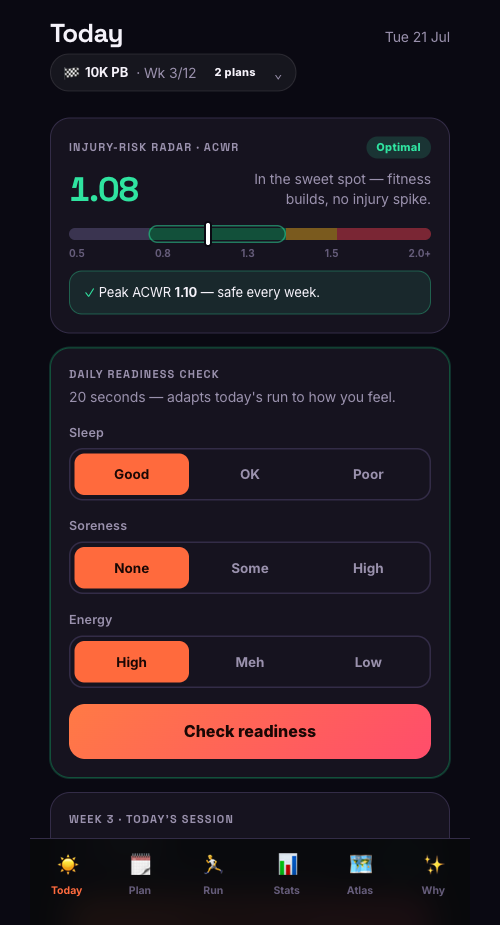
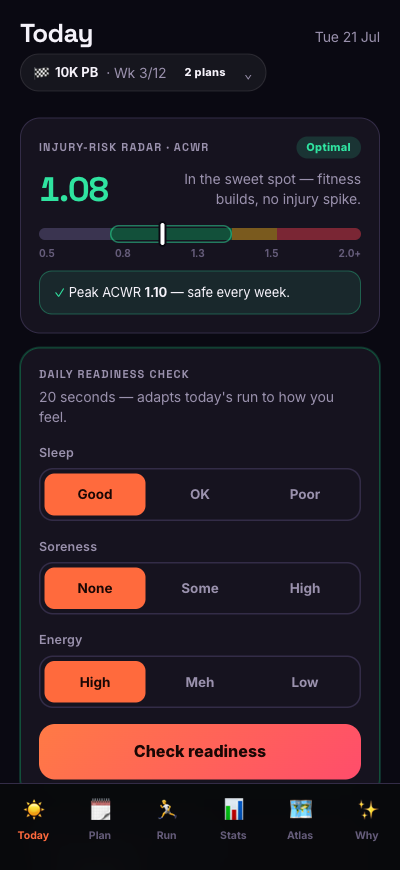
app: Run tab/screen adapts to walk mode (Walk tab, Easy walk, Start walk); SW v32 site: refresh proof-section screenshots with recent app (Today · Route Finder · AI coach)

diff --git a/app/app.html b/app/app.html
@@ -649,7 +649,7 @@
   <nav id="nav" class="hide">
     <button data-v="today" class="on" onclick="go('today')"><span class="ni">☀️</span>Today</button>
     <button data-v="plan" onclick="go('plan')"><span class="ni">🗓️</span>Plan</button>
-    <button data-v="run" onclick="go('run')"><span class="ni">🏃</span>Run</button>
+    <button data-v="run" onclick="go('run')"><span class="ni" id="nav-run-i">🏃</span><span id="nav-run-t">Run</span></button>
     <button data-v="stats" onclick="go('stats')"><span class="ni">📊</span>Stats</button>
     <button data-v="atlas" onclick="go('atlas')"><span class="ni">🗺️</span>Atlas</button>
     <button data-v="why" onclick="go('why')"><span class="ni">✨</span>Why</button>
@@ -1058,6 +1058,7 @@ function renderToday(){
     <button class="btn p" style="margin-top:14px" onclick="go('run')">Start this ${actWord()} →</button>`;
   reflectReminders();
   if(typeof renderRouteFinder==='function')renderRouteFinder();
+  if(typeof reflectMode==='function')reflectMode();
 }
 
 // ---- readiness ----
@@ -1253,8 +1254,9 @@ function checkHeat(speakIt){
 let run=null,watchId=null,tick=null,muted=false;
 const PACES={warm:6.2,easy:6.0,long:6.25,tempo:5.0,hard:4.5,jog:6.5,hill:5.4,race:4.4,cool:6.3,walk:11.0,wwarm:12.5,brisk:9.0};
 function paceStr(p){let m=Math.floor(p),s=Math.round((p-m)*60);if(s===60){m++;s=0;}return `${m}:${String(s).padStart(2,'0')}`;}
-function curSession(){const wk=S?S.plan[(S.curWeek-1)%S.plan.length]:null;return wk?wk.sessions[0]:{t:'Easy run',km:5,kind:'easy',note:''};}
+function curSession(){const wk=S?S.plan[(S.curWeek-1)%S.plan.length]:null;return wk?wk.sessions[0]:{t:'Easy '+(S&&S.mode==='walk'?'walk':'run'),km:5,kind:'easy',note:''};}
 function actWord(){return S&&S.mode==='walk'?'walk':'run';}
+function reflectMode(){var w=S&&S.mode==='walk';var i=document.getElementById('nav-run-i'),t=document.getElementById('nav-run-t');if(i)i.textContent=w?'🚶':'🏃';if(t)t.textContent=w?'Walk':'Run';var rs=document.getElementById('r-start');if(rs&&(typeof run==='undefined'||!run||!run.active))rs.textContent='Start '+(w?'walk':'run');}
 function buildLaps(se){
   const t=se.t||'',km=se.km||5,kind=se.kind;
   if(/walk/i.test(t)){

diff --git a/app/sw.js b/app/sw.js
@@ -1,5 +1,5 @@
 /* Strivon service worker — offline shell + cached map tiles */
-const CACHE = 'stride-v31';
+const CACHE = 'stride-v32';
 const TILES = 'stride-tiles-v1';
 const ASSETS = ['./app.html', './manifest.webmanifest', './icon.svg', './icon-512.png', './splash-logo.png',
   './config.js', './sync.js', './native-bridge.js', './vendor/supabase.js'];